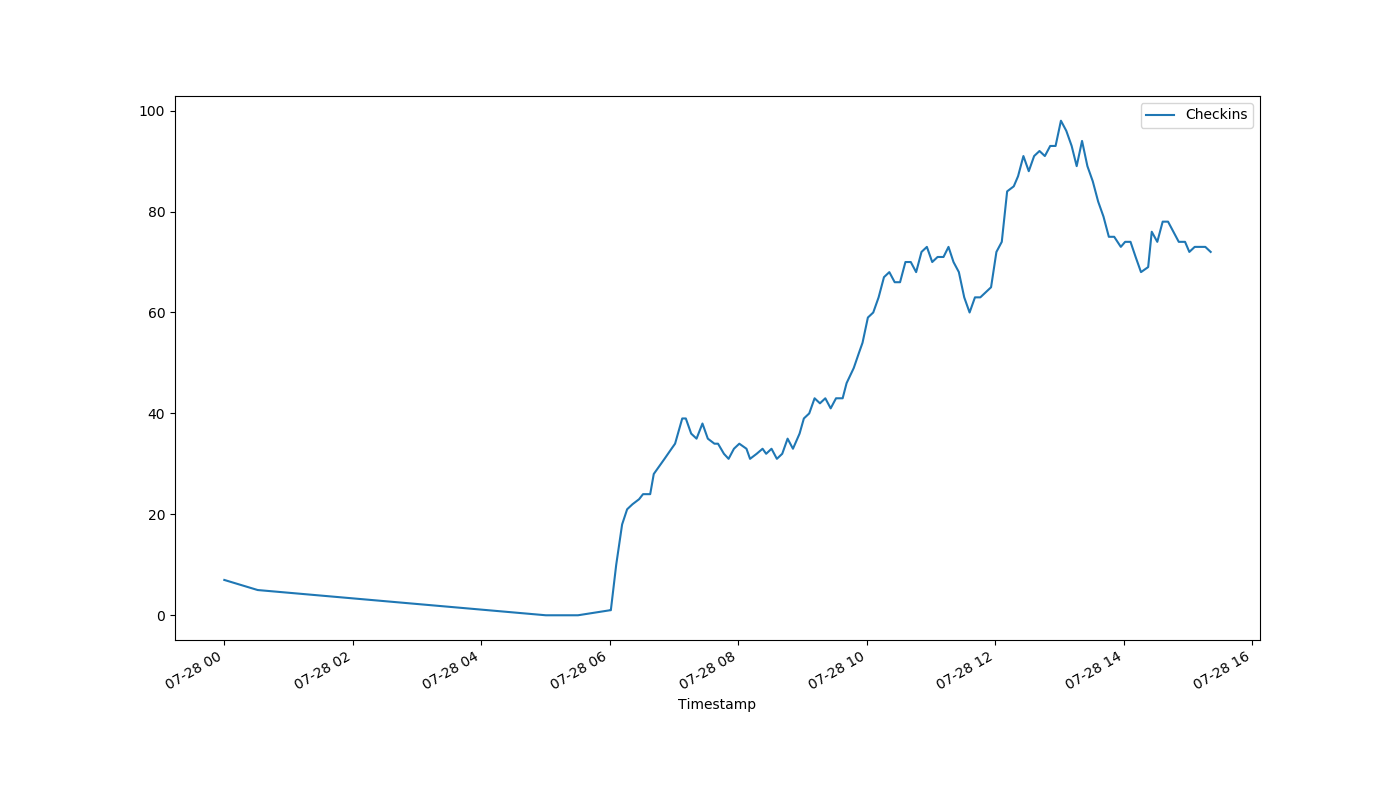
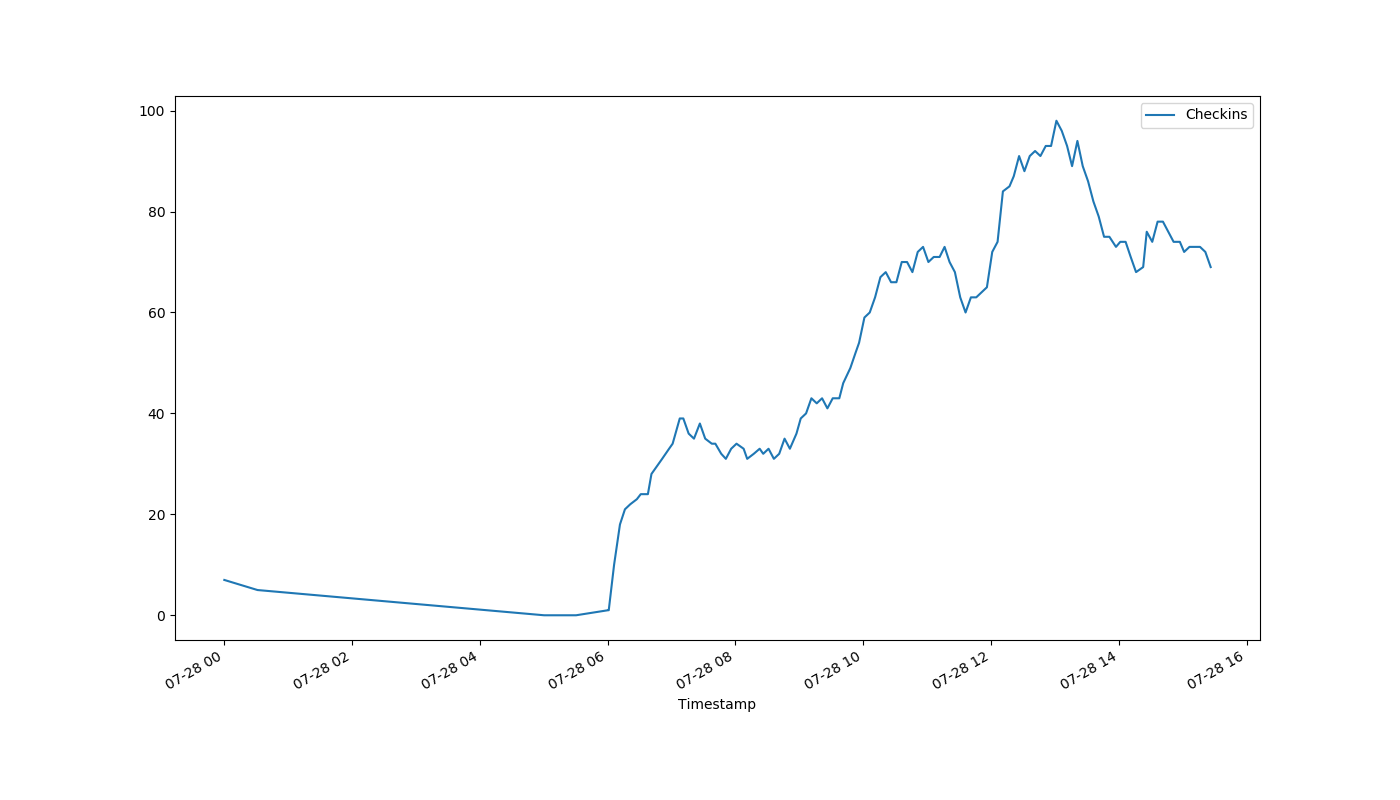
auto-Jul-28-15:27:00

diff --git a/index.html b/index.html
@@ -1,1 +1,1 @@
-<!DOCTYPE html><html><head><meta http-equiv="refresh" content="30"><link rel='stylesheet' href='holmcurrent.css'></head><body><p id='count'>72</p><div id='graph-wrap'><img id='graph' src='holmgraph-Jul-28.png'></div><p id='updated'>Last updated 15:21:08 / 15:21:06</p></body></html>
+<!DOCTYPE html><html><head><meta http-equiv="refresh" content="30"><link rel='stylesheet' href='holmcurrent.css'></head><body><p id='count'>69</p><div id='graph-wrap'><img id='graph' src='holmgraph-Jul-28.png'></div><p id='updated'>Last updated 15:26:08 / 15:26:07</p></body></html>
